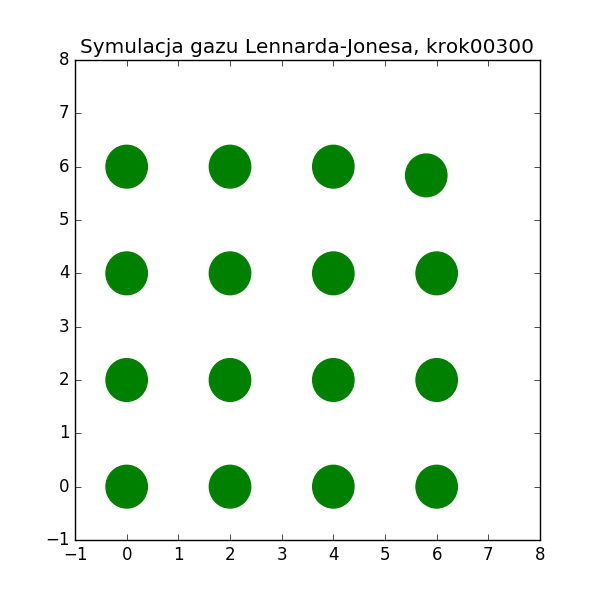
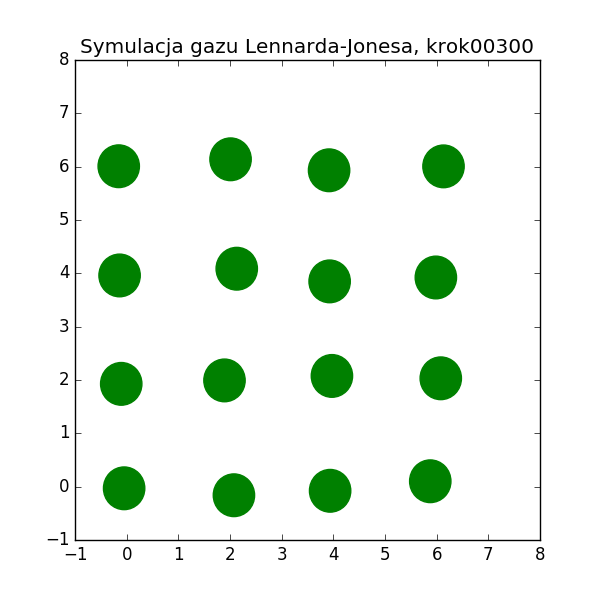
gazy update

diff --git a/gaz.py b/gaz.py
@@ -8,10 +8,10 @@ boxsize = 8.0
 eps = 1.0
 sigma = 1.0
 radius = 0.4
-deltat = 0.0001
+deltat = 0.001
 kT = 2.5
 delta = 2
-tmax = 0.1
+tmax = 10
 t = 0
 en = 0
 
@@ -48,8 +48,9 @@ while t < tmax:
 	for i in xrange(particleNumber):
 		particles[i].f = force(particles[i],particles)
 	for j in xrange(particleNumber):
-		particles[i].v = particles[i].v + (particles[i].f/particles[i].m) * deltat
-		particles[i].r = particles[i].r + particles[i].v * deltat
+		particles[j].v = particles[j].v + (particles[j].f/particles[j].m) * deltat
+		particles[j].r = particles[j].r + particles[j].v * deltat
+
 	if (en%100 == 0):
 		plt.clf()
 		F = plt.gcf()
@@ -66,5 +67,5 @@ while t < tmax:
 		nStr = nStr.rjust(5,'0')
 		plt.title('Symulacja gazu Lennarda-Jonesa, krok' + nStr)
 		plt.savefig('gazy/img' + nStr + '.png')
-		en += 1
-		t += deltat
+	en += 1
+	t += deltat
